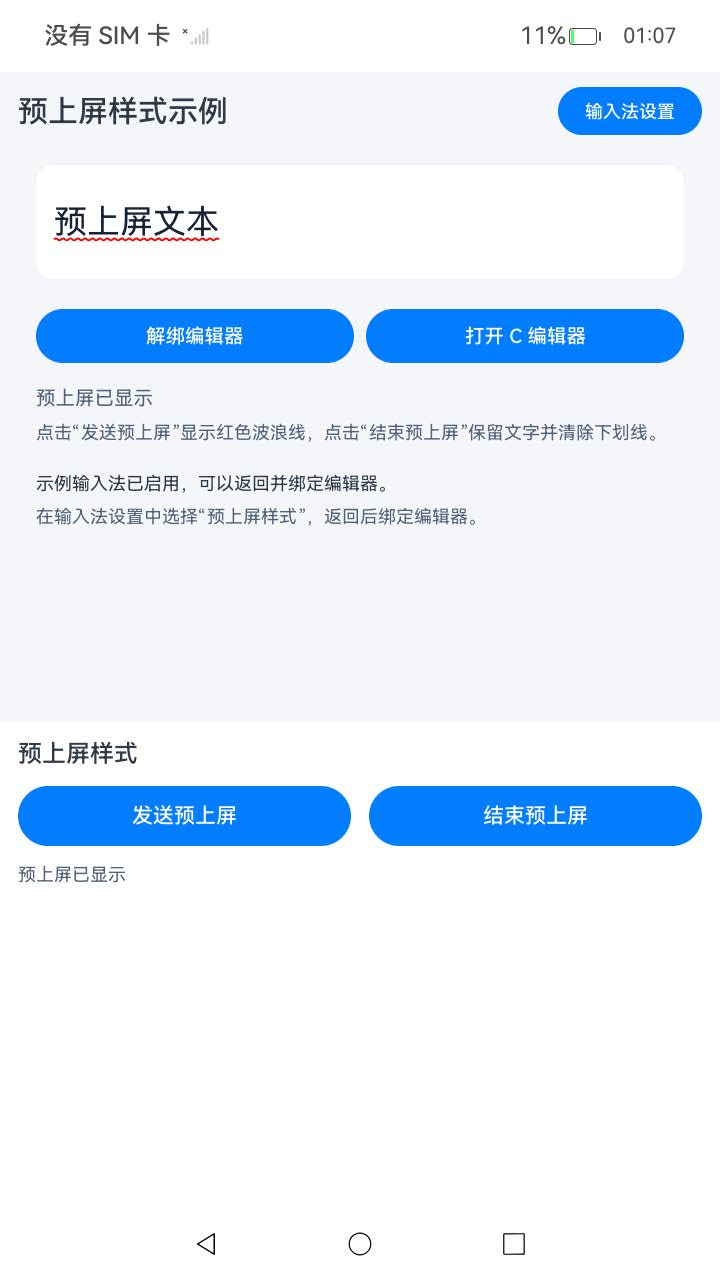
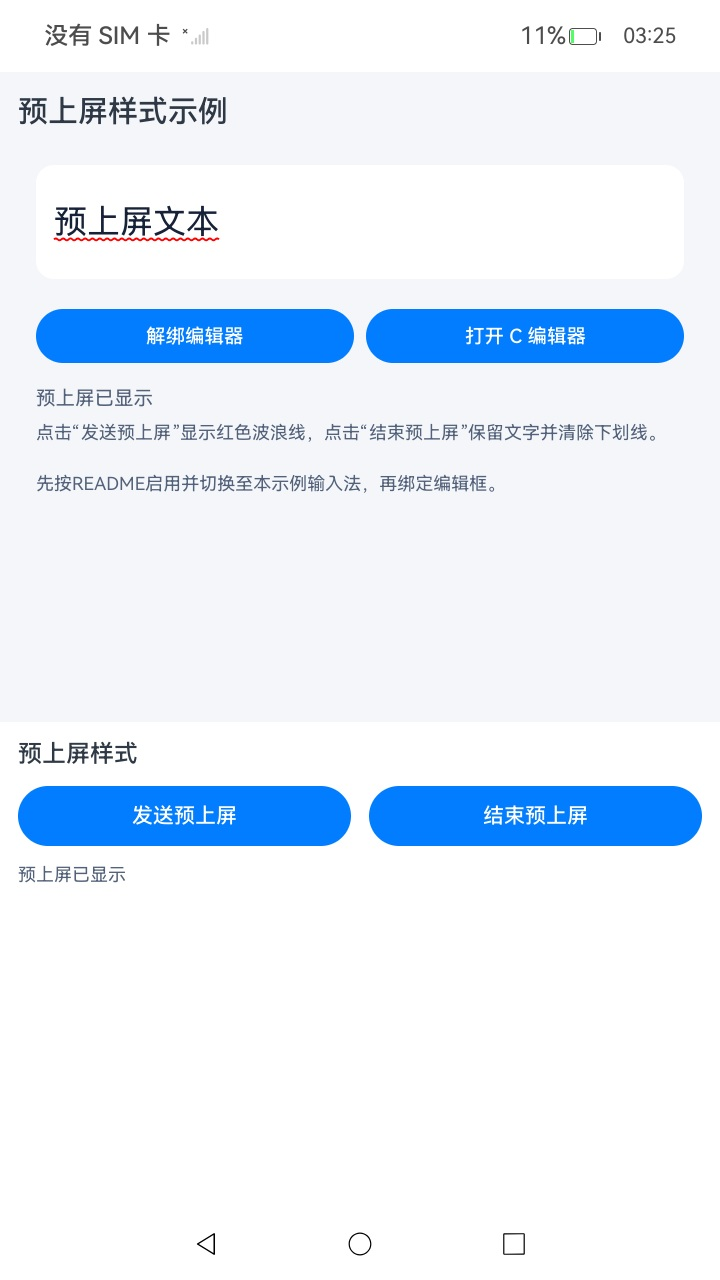
Fix preview style sample setup and review comments

diff --git a/code/DocsSample/InputMethod/PreviewTextStyleJS/entry/src/main/cpp/napi_init.cpp b/code/DocsSample/InputMethod/PreviewTextStyleJS/entry/src/main/cpp/napi_init.cpp
@@ -14,6 +14,7 @@
  */
 
 // [Start input_case_input_CPreview016]
+// [Start preview_style_c_headers]
 #include <algorithm>
 #include <mutex>
 #include <string>
@@ -25,6 +26,7 @@
 #include "inputmethod/inputmethod_preview_text_style_capi.h"
 #include "inputmethod/inputmethod_controller_capi.h"
 #include "napi/native_api.h"
+// [End preview_style_c_headers]
 
 static PreviewDisplayState g_display;
 static std::mutex g_textMutex;
@@ -32,6 +34,7 @@ static InputMethod_TextEditorProxy *textEditorProxy = nullptr;
 static InputMethod_AttachOptions *attachOptions = nullptr;
 static InputMethod_InputMethodProxy *inputMethodProxy = nullptr;
 
+// [Start preview_style_c_edit_callbacks]
 void GetTextConfigFunc(InputMethod_TextEditorProxy *proxy, InputMethod_TextConfig *config)
 {
     // 处理获取输入框配置请求
@@ -64,7 +67,7 @@ void InsertTextFunc(InputMethod_TextEditorProxy *proxy, const char16_t *text, si
     g_display.active = false;
 }
 
-// The framework reverses IME directions for compatibility; C editor backward means backspace.
+// 框架为兼容性反转输入方向；C编辑框的向后删除表示退格。
 void DeleteBackwardFunc(InputMethod_TextEditorProxy *proxy, int32_t length)
 {
     std::lock_guard<std::mutex> lock(g_textMutex);
@@ -85,12 +88,12 @@ void DeleteBackwardFunc(InputMethod_TextEditorProxy *proxy, int32_t length)
 void DeleteForwardFunc(InputMethod_TextEditorProxy *proxy, int32_t length)
 {
     std::lock_guard<std::mutex> lock(g_textMutex);
-    // This minimal editor keeps its cursor at the end; there is no text to its right.
+    // 本示例将光标保持在文本末尾，光标右侧没有文本。
 }
 
 void SendKeyboardStatusFunc(InputMethod_TextEditorProxy *proxy, InputMethod_KeyboardStatus status)
 {
-    // No-op: this editor derives its display state from the editing callbacks.
+    // 无需处理：本示例通过编辑回调更新显示状态。
 }
 
 void SendEnterKeyFunc(InputMethod_TextEditorProxy *proxy, InputMethod_EnterKeyType type)
@@ -149,12 +152,14 @@ int32_t ReceivePrivateCommandFunc(InputMethod_TextEditorProxy *proxy, InputMetho
     return 0;
 }
 
-// Attach requires the legacy callback. Rendering is owned by the styled callback.
+// OH_InputMethodController_Attach要求注册SetPreviewText回调；样式由带样式的回调处理。
 int32_t SetPreviewTextFunc(InputMethod_TextEditorProxy *proxy, const char16_t *text, size_t length,
     int32_t start, int32_t end)
 {
     return text == nullptr ? IME_ERR_NULL_POINTER : IME_ERR_OK;
 }
+
+// [End preview_style_c_edit_callbacks]
 
 // [Start preview_style_c_receive]
 int32_t SetPreviewTextWithStyleFunc(InputMethod_TextEditorProxy *proxy, const char16_t *text, uint32_t length,
@@ -166,8 +171,8 @@ int32_t SetPreviewTextWithStyleFunc(InputMethod_TextEditorProxy *proxy, const ch
     OH_InputMethod_UnderlineStyle kind = OH_INPUTMETHOD_UNDERLINE_STYLE_NONE;
     uint32_t color = 0;
     bool hasColor = false;
-    // Read the borrowed object; its lifetime belongs to the input method framework.
-    // The C getters accept a mutable pointer but only read this framework-owned object.
+    // 读取框架传入的样式对象，其生命周期由输入法框架管理。
+    // C接口接收非const指针，但此处仅读取框架持有的对象。
     auto *readStyle = const_cast<OH_InputMethod_PreviewTextStyle *>(style);
     auto result = OH_InputMethod_PreviewTextStyle_GetUnderlineStyle(readStyle, &kind);
     if (result != IME_ERR_OK) {
@@ -235,7 +240,7 @@ int32_t ConstructTextEditorProxy(InputMethod_TextEditorProxy *textEditorProxy)
 // [End input_case_input_CPreview016]
 
 // [Start input_case_input_CPreview208]
-// A failed detach can already have deleted the native proxy. Stop reuse until restart.
+// 解绑失败时原生代理可能已被删除，重新启动前停止复用。
 static int g_releaseError = IME_ERR_OK;
 // [Start input_case_input_OH_InputMethodController_Detach]
 static int ReleaseCEditor()
@@ -248,7 +253,9 @@ static int ReleaseCEditor()
         return g_releaseError;
     }
     if (inputMethodProxy != nullptr) {
+        // [Start preview_style_c_hide_keyboard]
         OH_InputMethodProxy_HideKeyboard(inputMethodProxy);
+        // [End preview_style_c_hide_keyboard]
         const int ret = OH_InputMethodController_Detach(inputMethodProxy);
         inputMethodProxy = nullptr;
         if (ret != IME_ERR_OK) {
@@ -269,7 +276,7 @@ static int ReleaseCEditor()
 
 // [End input_case_input_OH_InputMethodController_Detach]
 
-// One normal object-lifetime example, independent of received preview content.
+// 样式对象的创建与销毁示例，不依赖接收到的预上屏内容。
 // [Start preview_style_c_object]
 static int32_t PreviewTextStyleObjectExample()
 {
@@ -364,8 +371,10 @@ static napi_value IsInputMethodAttached(napi_env env, napi_callback_info info)
 
 static napi_value ShowInputMethodKeyboard(napi_env env, napi_callback_info info)
 {
+    // [Start preview_style_c_show_keyboard]
     const auto code = inputMethodProxy == nullptr ? IME_ERR_NULL_POINTER :
         OH_InputMethodProxy_ShowKeyboard(inputMethodProxy);
+    // [End preview_style_c_show_keyboard]
     napi_value result;
     napi_create_int32(env, code, &result);
     return result;

diff --git a/code/DocsSample/InputMethod/PreviewTextStyleJS/entry/src/main/cpp/PreviewDisplayState.h b/code/DocsSample/InputMethod/PreviewTextStyleJS/entry/src/main/cpp/PreviewDisplayState.h
@@ -13,7 +13,7 @@
  * limitations under the License.
  */
 
-// Preview display ownership is independent of callback delivery order.
+// 预上屏显示状态不依赖回调的到达顺序。
 #ifndef PREVIEW_DISPLAY_STATE_H
 #define PREVIEW_DISPLAY_STATE_H
 #include <cstddef>

diff --git a/code/DocsSample/InputMethod/PreviewTextStyleJS/README.md b/code/DocsSample/InputMethod/PreviewTextStyleJS/README.md
@@ -10,26 +10,41 @@
 
 | 指南内容 | 源文件 | 片段标记 |
 | -- | -- | -- |
+| 获取输入连接 | `entry/src/main/ets/keyboard/PreviewInputMethod.ets` | `preview_style_js_input_start` |
 | 异步发送 | `entry/src/main/ets/keyboard/PreviewSender.ets` | `preview_style_js_send` |
 | 同步调用的等价写法 | 同上 | `preview_style_js_send_sync` |
 | 结束预上屏 | 同上 | `preview_style_js_finish` |
-| 接收并绘制样式，兼容旧回调 | `entry/src/main/ets/components/PreviewEditor.ets` | `preview_style_js_receive` |
+| 接收并绘制样式，同时处理setPreviewText事件 | `entry/src/main/ets/components/PreviewEditor.ets` | `preview_style_js_receive` |
 | 注册与取消样式订阅 | 同上 | `preview_style_js_subscribe` |
 | 注册基本回调并绑定编辑器 | 同上 | `preview_style_js_attach` |
 | C 接收样式 | `entry/src/main/cpp/napi_init.cpp` | `preview_style_c_receive` |
 | C 注册样式回调 | 同上 | `preview_style_c_register` |
 | C 样式对象生命周期 | 同上 | `preview_style_c_object` |
+| C头文件引用 | `entry/src/main/cpp/napi_init.cpp` | `preview_style_c_headers` |
+| C编辑回调实现 | 同上 | `preview_style_c_edit_callbacks` |
+| C显示键盘 | 同上 | `preview_style_c_show_keyboard` |
+| C隐藏键盘 | 同上 | `preview_style_c_hide_keyboard` |
 
 C 页面为 `entry/src/main/ets/pages/PrivatePreview.ets`；原生类型声明为 `entry/src/main/cpp/types/libentry/Index.d.ts`。跳转到 C 页面前先取消 ArkTS 编辑器订阅并解绑，C 页面隐藏或返回时停止轮询，解绑原生编辑器，避免两个编辑器同时占用连接。若 C 编辑器解绑失败，返回按钮会保留当前页面并显示错误码。
 
 发送端从输入法 `inputStart` 事件取得 `InputClient`。页面使用异步发送方法；`sendSync()` 保留同步接口的完整代码示例，不另设测试按钮。发送范围 `{-1, -1}` 替换当前预上屏文本，没有预上屏时插入到光标处。
 
-编辑器在绑定前注册预上屏与结束回调，在绑定成功后注册需要连接的基本编辑回调。解绑或离开页面时，使用原回调对象取消订阅并解绑。新旧回调不会重复插入同一预上屏，也不会由旧回调清除刚收到的样式。编辑器支持指南中的四种线型；省略颜色时使用应用主题色，显式颜色 0 表示黑色，并忽略 Alpha 通道。页面只展示指南的红色波浪线正常流程。
+编辑器在绑定前注册预上屏与结束回调，在绑定成功后注册需要连接的基本编辑回调。解绑或离开页面时，使用原回调对象取消订阅并解绑。同时订阅setPreviewText事件和onSetPreviewTextWithStyle时，避免重复处理预上屏文本内容。编辑器支持指南中的四种线型；省略颜色时使用应用主题色，显式颜色 0 表示黑色，并忽略 Alpha 通道。页面只展示指南的红色波浪线正常流程。
 
 ## 构建与运行
 
 1. 使用支持 SDK 26.1.0 的 DevEco Studio 打开本工程。SDK 必须包含本次预上屏样式接口声明，设备必须提供相应输入法与编辑器实现。配置与目标设备匹配的本地签名。
-2. 安装后，点击“输入法设置”，选择“预上屏样式”，返回本应用。
+2. 安装后，在设备已开启开发者模式并连接HDC的情况下，依次启用、切换并查询本示例输入法。应用不提供输入法设置按钮，也不会自动切换输入法。以下验证采用完整体验模式；ime工具默认的基础模式会使用隔离环境，需按设备能力另行验证。
+
+   ```shell
+   # 以完整体验模式启用本示例输入法
+   hdc shell ime -e com.samples.previewstylejs -f
+   # 切换至本示例输入法
+   hdc shell ime -s com.samples.previewstylejs
+   # 确认当前输入法包名为com.samples.previewstylejs
+   hdc shell ime -g
+   ```
+
 3. 点击“绑定编辑器”，在样例键盘点击“发送预上屏”。编辑器显示“预上屏文本”和红色波浪线。
 4. 点击“结束预上屏”，文字保留，下划线消失。结束使用时点击“解绑编辑器”。
 5. 在主页点击“打开 C 编辑器”。点击 C 编辑框或“绑定”，再用同一输入法点击“发送预上屏”和“结束预上屏”，观察真实原生回调更新编辑区。点击“返回 JS”回到主页后，可重新绑定 ArkTS 编辑器。

diff --git a/code/DocsSample/InputMethod/PreviewTextStyleJS/TestReport.md b/code/DocsSample/InputMethod/PreviewTextStyleJS/TestReport.md
@@ -1,7 +1,14 @@
 # 验证状态
 
-候选环境 CLI 增量构建已通过，使用 SDK 26.0.0，完成 `armeabi-v7a` 与 `arm64-v8a` 的编译、链接及 HAP 打包。正式工程目标为 SDK 26.1.0；正式 SDK 与 IDE 构建尚待验证。
+完成本次修改的CLI主HAP和ohosTest HAP构建。工程目标SDK为26.1.0；本地使用26.1.0门禁ArkTS工具链及配套的预上屏样式C接口头文件、链接库。未修改设备系统运行库。本次未新增IDE构建截图。
 
-此前取得合并工程的 [JS](screenshots/Sample-Run-JS.jpeg)、[C](screenshots/Sample-Run-C.jpeg) 运行截图，并验证 JS→C→JS 导航、真实预上屏样式回调、结束预上屏后保留文字与清除下划线。采集结束后原输入法已恢复，四项系统运行库哈希保持不变。
+在RK3568设备执行本工程OpenHarmonyTestRunner，结果为4项通过、0项失败、0项错误：
 
-输入法设置与切换依赖系统能力。本次设备未提供配置入口，未激活的输入法也无切换权限；页面的异常反馈已验证。运行截图采集前由测试工具预选本应用输入法，应用自主切换输入法尚未通过验证。
+- OpenPreviewEditor_001：启动后显示默认编辑框。
+- SendAndFinishJsPreview_002：编辑框收到预上屏文本，结束后保留文本。
+- SendAndFinishCPreview_003：C编辑框收到预上屏文本，结束后保留文本，并可返回默认页面。
+- VerifySettingsEntryRemoved_004：默认编辑框可见，输入法设置按钮不存在。
+
+测试前按README中的ime命令以完整体验模式启用并切换本示例输入法，完成后恢复原输入法。基础模式的隔离启动未通过本次设备验证，不纳入上述通过结论。应用不自动切换输入法，也不依赖系统输入法设置窗口。
+
+本次修改后的实际运行截图见[ArkTS编辑框](screenshots/Sample-Run-JS.jpeg)和[C编辑框](screenshots/Sample-Run-C.jpeg)。自动化用例校验文本和页面流程，不代替下划线视觉效果检视。

diff --git a/code/DocsSample/InputMethod/PreviewTextStyleJS/ohosTest.md b/code/DocsSample/InputMethod/PreviewTextStyleJS/ohosTest.md
@@ -1,6 +1,6 @@
 # 自动化测试
 
-1. 在设备上安装Release主HAP，启用并选中本示例输入法。
+1. 在设备上安装Release主HAP，按README中的ime命令以完整体验模式启用并切换至本示例输入法。
 2. 在DevEco Studio中选择该设备，打开 `entry/src/ohosTest/ets/test/List.test.ets`，右键选择 **Run**。DevEco Studio会构建并安装测试HAP，执行测试套件。
 
 | 用例 | 操作 | 预期结果 |
@@ -8,6 +8,4 @@
 | OpenPreviewEditor_001 | 启动示例 | 默认显示JS编辑区 |
 | SendAndFinishJsPreview_002 | 绑定JS编辑区，发送并结束预上屏 | 收到资源文本，结束后正文保留 |
 | SendAndFinishCPreview_003 | 打开C编辑器，绑定、发送、结束并返回 | C编辑区收到文本，结束后正文保留，能返回JS页面 |
-| OpenInputMethodSettings_004 | 点击输入法设置 | 有系统入口时打开设置窗口，无入口时显示相应提示 |
-
-设置应用启动失败的分支需在能复现该错误的设备上验证。
+| VerifySettingsEntryRemoved_004 | 启动示例并检查默认页面 | 显示编辑框，不显示输入法设置按钮 |
